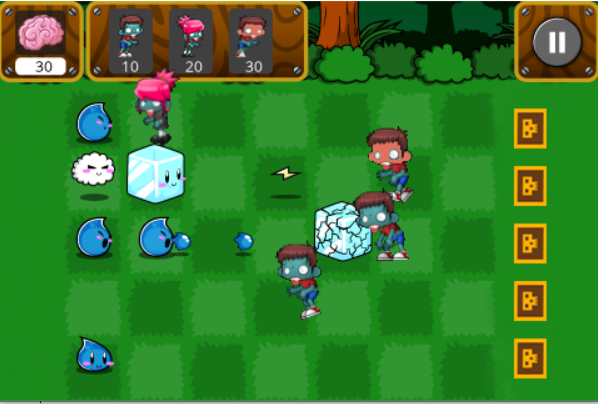
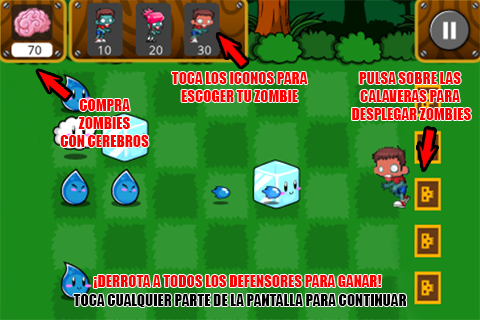
Equilibrado del juego y añadido tutorial

diff --git a/JuegoPropio/JuegoPropio/Hielo.cpp b/JuegoPropio/JuegoPropio/Hielo.cpp
@@ -14,7 +14,7 @@ Hielo::Hielo(float x, float y, Game* game)
 
 	animation = aMoving;
 
-	lifes = 15;
+	lifes = 20;
 
 	cerebrosDados = 30;
 
@@ -23,7 +23,7 @@ Hielo::Hielo(float x, float y, Game* game)
 }
 
 Projectile* Hielo::createProjectile() {
-	return new Projectile(x, y, 2, game, "res/disparoHielo.png");
+	return new Projectile(x, y, 3, game, "res/disparoHielo.png");
 }
 
 

diff --git a/JuegoPropio/JuegoPropio/ZombieFuerte.cpp b/JuegoPropio/JuegoPropio/ZombieFuerte.cpp
@@ -14,9 +14,9 @@ ZombieFuerte::ZombieFuerte(float x, float y, Game* game)
 
 	animation = aMoving;
 
-	lifes = 70;
+	lifes = 50;
 
-	damage = 8;
+	damage = 6;
 	
 	baseVX = -1;
 }

diff --git a/JuegoPropio/JuegoPropio/ZombieBasico.cpp b/JuegoPropio/JuegoPropio/ZombieBasico.cpp
@@ -14,7 +14,7 @@ ZombieBasico::ZombieBasico(float x, float y, Game* game)
 
 	animation = aMoving;
 
-	lifes = 50;
+	lifes = 40;
 
 	damage = 5;
 

diff --git a/JuegoPropio/JuegoPropio/Gota.cpp b/JuegoPropio/JuegoPropio/Gota.cpp
@@ -14,7 +14,7 @@ Gota::Gota(float x, float y, Game* game)
 
 	animation = aMoving;
 
-	lifes = 3;
+	lifes = 6;
 
 	cerebrosDados = 10; 
 

diff --git a/JuegoPropio/JuegoPropio/Nube.cpp b/JuegoPropio/JuegoPropio/Nube.cpp
@@ -14,7 +14,7 @@ Nube::Nube(float x, float y, Game* game)
 
 	animation = aMoving;
 
-	lifes = 1;
+	lifes = 3;
 
 	cerebrosDados = 50;
 
